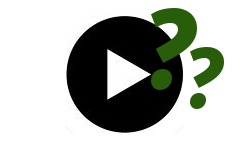
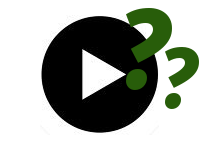
Added help for what all the buttons mean.

diff --git a/public/stylesheets/videoRecording.css b/public/stylesheets/videoRecording.css
@@ -84,3 +84,12 @@ tr.no-tags {
 #no-tags:last-child {
     display: table-row;
 }
+
+.next-buttons-help img:first-child {
+    margin-right:-44px;
+}
+
+.next-buttons-help p {
+    font-size: 14px;
+    padding-left: 10px;
+}
